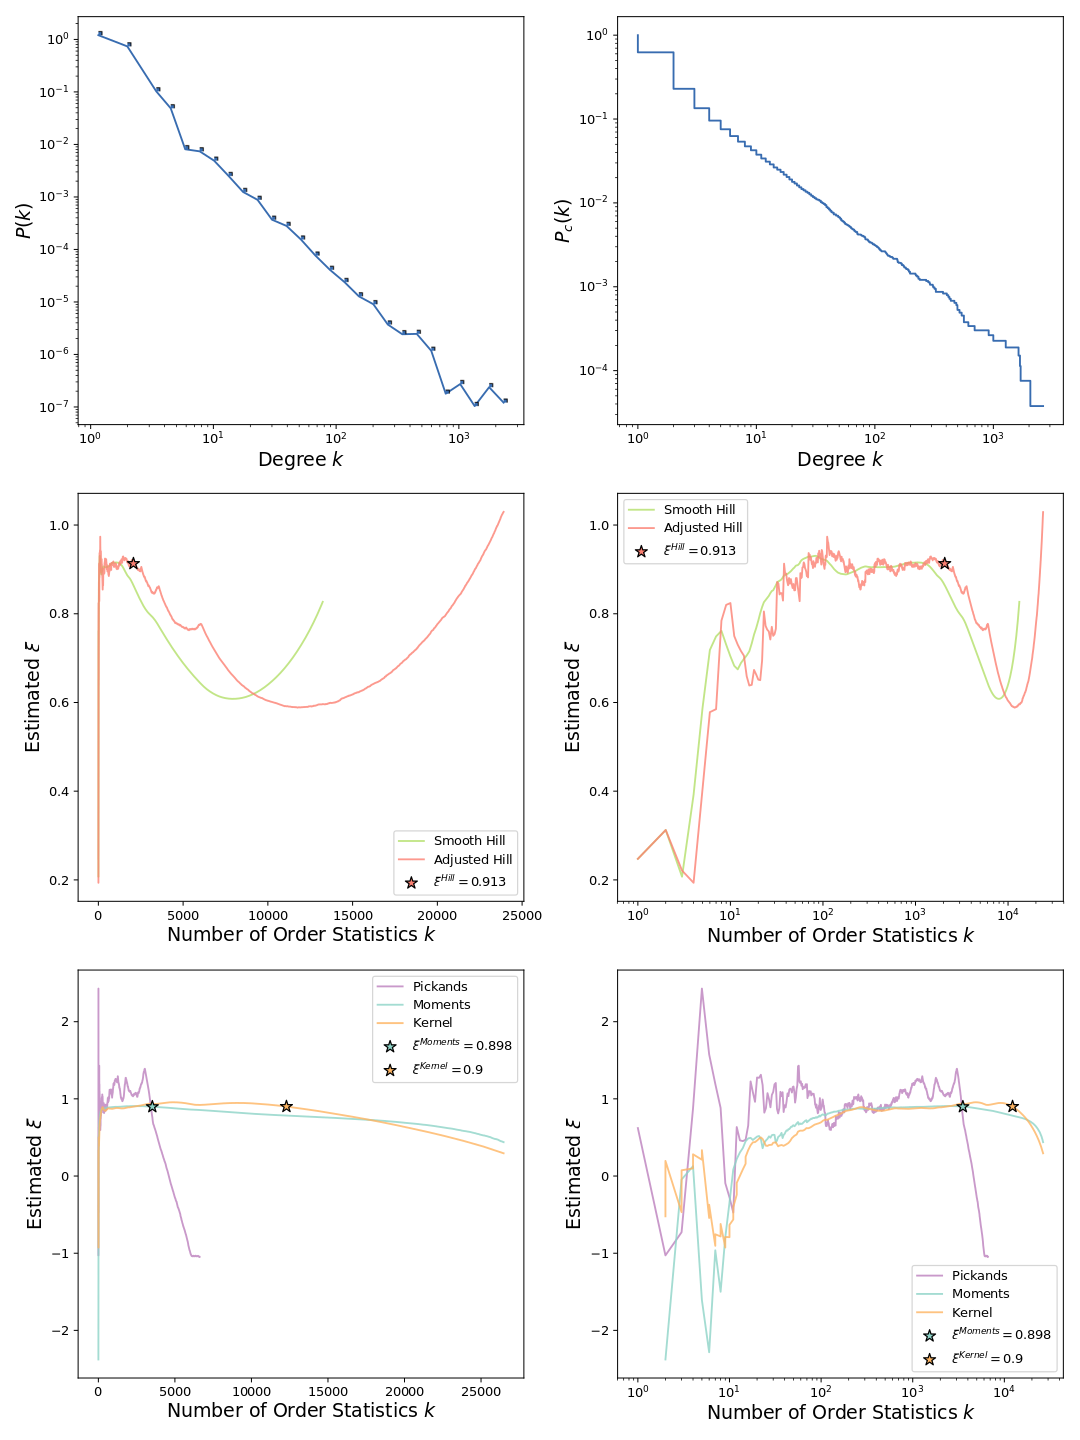
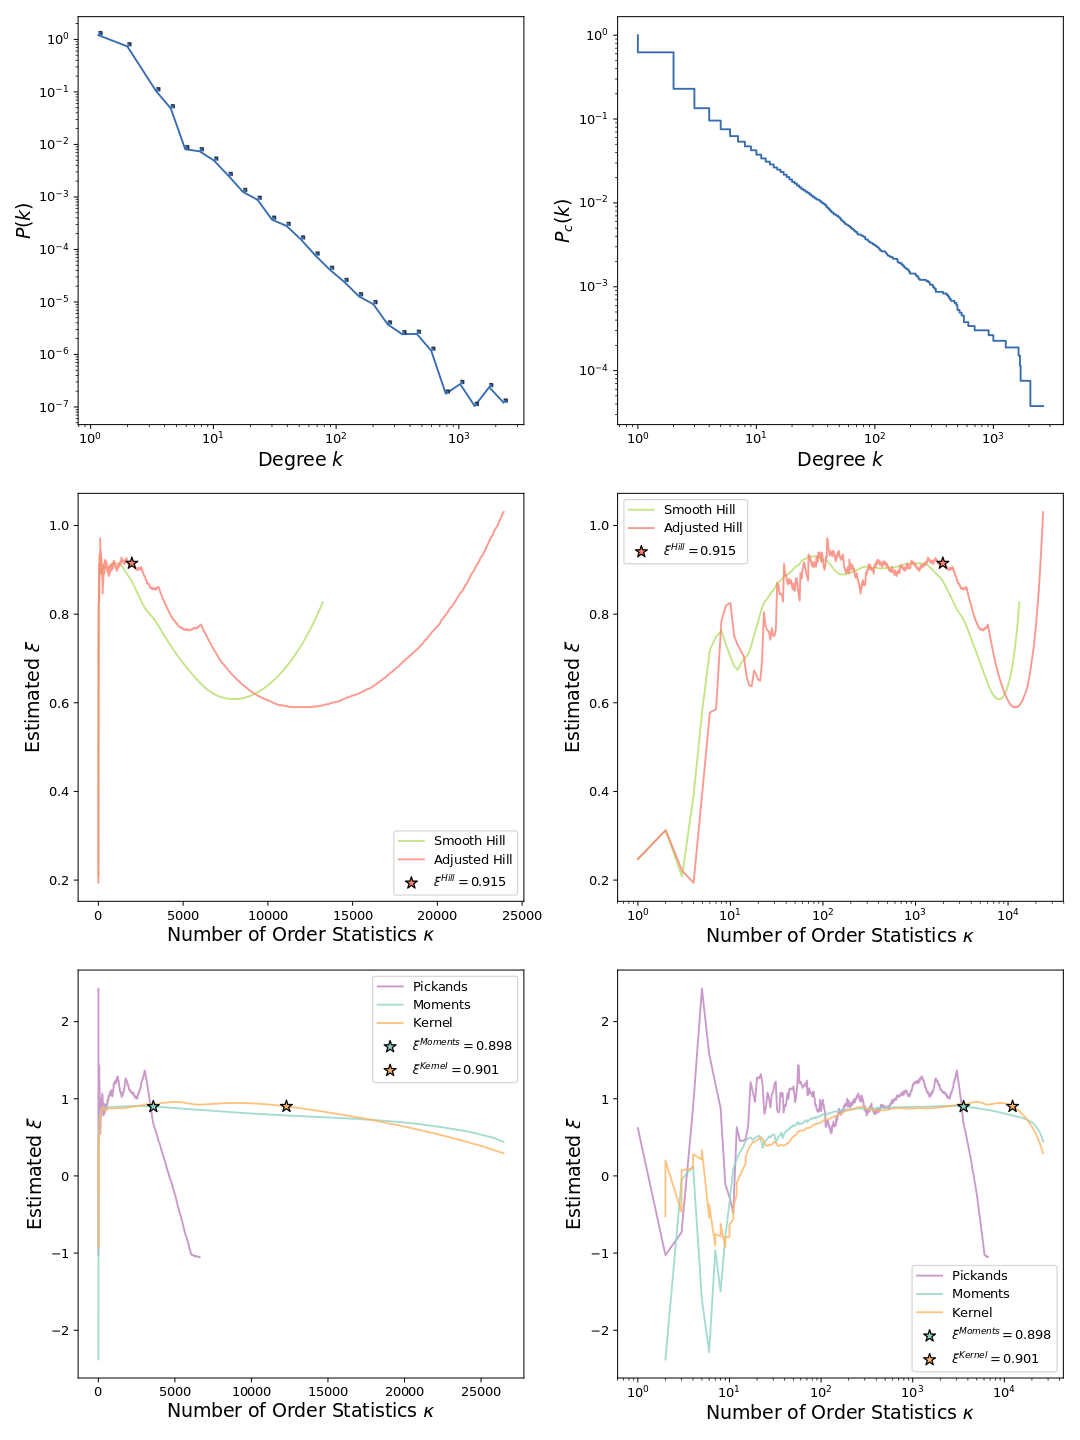
More Updates

diff --git a/Python2/tail-estimation.py b/Python2/tail-estimation.py
@@ -224,8 +224,10 @@ def hill_estimator(ordered_data,
         print "**********"
     else:
         k_star, xi_star = None, None
+        x1_arr, n1_amse, k1, max_index1 = 4*[None]
+        x2_arr, n2_amse, k2, max_index2 = 4*[None]
     results = [k_arr, xi_arr, k_star, xi_star, x1_arr, n1_amse, k1, max_index1,\
-              x2_arr, n2_amse, k2, max_index2]
+               x2_arr, n2_amse, k2, max_index2]
     return results
 
 def smooth_hill_estimator(ordered_data, r_smooth = 2):
@@ -420,6 +422,8 @@ def moments_estimator(ordered_data,
         print "**********"
     else:
         k_star, xi_star = None, None
+        x1_arr, n1_amse, k1, max_index1 = 4*[None]
+        x2_arr, n2_amse, k2, max_index2 = 4*[None]
     results = [k_arr, xi_arr, k_star, xi_star, x1_arr, n1_amse, k1, max_index1,\
               x2_arr, n2_amse, k2, max_index2]
     return results
@@ -636,6 +640,8 @@ def kernel_type_estimator(ordered_data, hsteps, alpha = 0.6,
         print "**********"
     else:
         k_star, xi_star = None, None
+        x1_arr, n1_amse, h1, max_index1 = 4*[None]
+        x2_arr, n2_amse, h2, max_index2 = 4*[None]
         k_arr = np.floor(h_arr * n)
     results = [np.array(k_arr), xi_arr, k_star, xi_star, x1_arr, n1_amse, h1, max_index1,\
               x2_arr, n2_amse, h2, max_index2]
@@ -816,7 +822,8 @@ def make_plots(ordered_data, output_file_path, number_of_bins,
     xi_k_star = kernel_type_results[3]
     x1_k_arr, n1_k_amse, h1, max_k_index1 = kernel_type_results[4:8]
     x2_k_arr, n2_k_amse, h2, max_k_index2 = kernel_type_results[8:]
-    k_k1_star = np.argmin(np.abs(k_k_arr - k_k_star))
+    if bootstrap_flag:
+        k_k1_star = np.argmin(np.abs(k_k_arr - k_k_star))
     if savedata == 1:
         with open(os.path.join(output_dir+"/"+output_name+"_kern_plot.dat"), "w") as f:
             for i in xrange(len(k_k_arr)):
@@ -885,7 +892,7 @@ def make_plots(ordered_data, output_file_path, number_of_bins,
     min_k = int(np.ceil(len(k_h_arr)**theta1)) - 1
     max_k = int(np.floor(len(k_h_arr)**theta2)) - 1
 
-    axes[1,0].set_xlabel(r"Number of Order Statistics $k$", fontsize = 15)
+    axes[1,0].set_xlabel(r"Number of Order Statistics $\kappa$", fontsize = 15)
     axes[1,0].set_ylabel(r"Estimated $\hat{\xi}$", fontsize = 15)    
     # plot smooth Hill
     indices_to_plot = np.where((k_sh_arr <= max_k) & (k_sh_arr >= min_k))
@@ -897,16 +904,17 @@ def make_plots(ordered_data, output_file_path, number_of_bins,
     axes[1,0].plot(k_h_arr[indices_to_plot], xi_h_arr[indices_to_plot],
                    color = "#fb8072", alpha = 0.8, label = "Adjusted Hill",
                    zorder = 10)
-    axes[1,0].scatter([k_h_arr[k_h_star-1]], [xi_h_arr[k_h_star-1]],
-                   color = "#fb8072", marker = "*", s = 100,
-                   edgecolor = "black", zorder = 20, 
-                   label = r"$\widehat{\xi}^{Hill}="\
-                       +str(np.round([xi_h_arr[k_h_star-1]][0], decimals = 3))\
-                       +r"$")
+    if bootstrap_flag:
+        axes[1,0].scatter([k_h_arr[k_h_star-1]], [xi_h_arr[k_h_star-1]],
+                       color = "#fb8072", marker = "*", s = 100,
+                       edgecolor = "black", zorder = 20, 
+                       label = r"$\widehat{\xi}^{Hill}="\
+                           +str(np.round([xi_h_arr[k_h_star-1]][0], decimals = 3))\
+                           +r"$")
     axes[1,0].legend(loc = "best")
 
     
-    axes[1,1].set_xlabel(r"Number of Order Statistics $k$", fontsize = 15)
+    axes[1,1].set_xlabel(r"Number of Order Statistics $\kappa$", fontsize = 15)
     axes[1,1].set_ylabel(r"Estimated $\hat{\xi}$", fontsize = 15) 
     axes[1,1].set_xscale("log")   
     # plot smooth Hill
@@ -919,15 +927,16 @@ def make_plots(ordered_data, output_file_path, number_of_bins,
     axes[1,1].plot(k_h_arr[indices_to_plot], xi_h_arr[indices_to_plot],
                    color = "#fb8072", alpha = 0.8, label = "Adjusted Hill",
                    zorder = 10)
-    axes[1,1].scatter([k_h_arr[k_h_star-1]], [xi_h_arr[k_h_star-1]],
-                   color = "#fb8072", marker = "*", s = 100,
-                   edgecolor = "black", zorder = 20, 
-                   label = r"$\widehat{\xi}^{Hill}="\
-                       +str(np.round([xi_h_arr[k_h_star-1]][0], decimals = 3))\
-                       +r"$")
+    if bootstrap_flag:
+        axes[1,1].scatter([k_h_arr[k_h_star-1]], [xi_h_arr[k_h_star-1]],
+                       color = "#fb8072", marker = "*", s = 100,
+                       edgecolor = "black", zorder = 20, 
+                       label = r"$\widehat{\xi}^{Hill}="\
+                           +str(np.round([xi_h_arr[k_h_star-1]][0], decimals = 3))\
+                           +r"$")
     axes[1,1].legend(loc = "best")
 
-    axes[2,0].set_xlabel(r"Number of Order Statistics $k$", fontsize = 15)
+    axes[2,0].set_xlabel(r"Number of Order Statistics $\kappa$", fontsize = 15)
     axes[2,0].set_ylabel(r"Estimated $\hat{\xi}$", fontsize = 15)
 
     #plot Pickands
@@ -940,26 +949,28 @@ def make_plots(ordered_data, output_file_path, number_of_bins,
     axes[2,0].plot(k_m_arr[indices_to_plot], xi_m_arr[indices_to_plot],
                    color = "#8dd3c7", alpha = 0.8, label = "Moments",
                    zorder = 10)
-    axes[2,0].scatter([k_m_arr[k_m_star-1]], [xi_m_arr[k_m_star-1]],
-                   color = "#8dd3c7", marker = "*", s = 100,
-                   edgecolor = "black", zorder = 20, 
-                   label = r"$\widehat{\xi}^{Moments}="\
-                       +str(np.round([xi_m_arr[k_m_star-1]][0], decimals = 3))\
-                       +r"$")
+    if bootstrap_flag:
+        axes[2,0].scatter([k_m_arr[k_m_star-1]], [xi_m_arr[k_m_star-1]],
+                       color = "#8dd3c7", marker = "*", s = 100,
+                       edgecolor = "black", zorder = 20, 
+                       label = r"$\widehat{\xi}^{Moments}="\
+                           +str(np.round([xi_m_arr[k_m_star-1]][0], decimals = 3))\
+                           +r"$")
     #plot kernel-type
     indices_to_plot = np.where((xi_k_arr <= 3) & (xi_k_arr >= -3))
     axes[2,0].plot(k_k_arr[indices_to_plot], xi_k_arr[indices_to_plot],
                    color = "#fdb462", alpha = 0.8, label = "Kernel",
                    zorder = 10)
-    axes[2,0].scatter([k_k_arr[k_k1_star-1]], [xi_k_arr[k_k1_star-1]],
-                   color = "#fdb462", marker = "*", s = 100,
-                   edgecolor = "black", zorder = 20, 
-                   label = r"$\widehat{\xi}^{Kernel}="\
-                       +str(np.round([xi_k_arr[k_k1_star-1]][0], decimals = 3))\
-                       +r"$")
+    if bootstrap_flag:
+        axes[2,0].scatter([k_k_arr[k_k1_star-1]], [xi_k_arr[k_k1_star-1]],
+                       color = "#fdb462", marker = "*", s = 100,
+                       edgecolor = "black", zorder = 20, 
+                       label = r"$\widehat{\xi}^{Kernel}="\
+                           +str(np.round([xi_k_arr[k_k1_star-1]][0], decimals = 3))\
+                           +r"$")
     axes[2,0].legend(loc = "best")
 
-    axes[2,1].set_xlabel(r"Number of Order Statistics $k$", fontsize = 15)
+    axes[2,1].set_xlabel(r"Number of Order Statistics $\kappa$", fontsize = 15)
     axes[2,1].set_ylabel(r"Estimated $\hat{\xi}$", fontsize = 15)
     axes[2,1].set_xscale("log")
     #plot Pickands
@@ -972,23 +983,25 @@ def make_plots(ordered_data, output_file_path, number_of_bins,
     axes[2,1].plot(k_m_arr[indices_to_plot], xi_m_arr[indices_to_plot],
                    color = "#8dd3c7", alpha = 0.8, label = "Moments",
                    zorder = 10)
-    axes[2,1].scatter([k_m_arr[k_m_star-1]], [xi_m_arr[k_m_star-1]],
-                   color = "#8dd3c7", marker = "*", s = 100,
-                   edgecolor = "black", zorder = 20, 
-                   label = r"$\widehat{\xi}^{Moments}="\
-                       +str(np.round([xi_m_arr[k_m_star-1]][0], decimals = 3))\
-                       +r"$")
+    if bootstrap_flag:
+        axes[2,1].scatter([k_m_arr[k_m_star-1]], [xi_m_arr[k_m_star-1]],
+                       color = "#8dd3c7", marker = "*", s = 100,
+                       edgecolor = "black", zorder = 20, 
+                       label = r"$\widehat{\xi}^{Moments}="\
+                           +str(np.round([xi_m_arr[k_m_star-1]][0], decimals = 3))\
+                           +r"$")
     #plot kernel-type
     indices_to_plot = np.where((xi_k_arr <= 3) & (xi_k_arr >= -3))
     axes[2,1].plot(k_k_arr[indices_to_plot], xi_k_arr[indices_to_plot],
                    color = "#fdb462", alpha = 0.8, label = "Kernel",
                    zorder = 10)
-    axes[2,1].scatter([k_k_arr[k_k1_star-1]], [xi_k_arr[k_k1_star-1]],
-                   color = "#fdb462", marker = "*", s = 100,
-                   edgecolor = "black", zorder = 20, 
-                   label = r"$\widehat{\xi}^{Kernel}="\
-                       +str(np.round([xi_k_arr[k_k1_star-1]][0], decimals = 3))\
-                       +r"$")
+    if bootstrap_flag:
+        axes[2,1].scatter([k_k_arr[k_k1_star-1]], [xi_k_arr[k_k1_star-1]],
+                       color = "#fdb462", marker = "*", s = 100,
+                       edgecolor = "black", zorder = 20, 
+                       label = r"$\widehat{\xi}^{Kernel}="\
+                           +str(np.round([xi_k_arr[k_k1_star-1]][0], decimals = 3))\
+                           +r"$")
     axes[2,1].legend(loc = "best")
 
     if diagn_plots:

diff --git a/README.md b/README.md
@@ -1,6 +1,6 @@
 # Tail Index Estimation for Degree Sequences of Complex Networks
 
-[summary](#script-summary)
+## Summary
 
 This script is intended to be a single-file simple solution to the tail index estimation problem in complex networks. It consists of several well-established estimators combined into one toolbox along with some useful plotting routines that usually help to analyze a given degree distribution.
 
@@ -25,27 +25,45 @@ where **k** is a node's degree and **n(k)** is the number of nodes with such deg
 ## Simple Usage Example
 
 Here we provide the simplest usage example of the _tail-estimation_ script. 
-Suppose we want to compute the tail index of a degree distribution of the [CAIDA network](http://konect.uni-koblenz.de/networks/as-caida20071105) provided by [KONECT database](http://konect.uni-koblenz.de/). We first convert the network in the form of an edge list to the format of _degree counts_ as indicated above. The converted data can be found under the _Examples_ directory under the **CAIDA_KONECT.dat** name. Then we run the _tail-estimation.py_ script as follows:
+Suppose we want to compute the tail index of a degree distribution of the [CAIDA network](http://konect.uni-koblenz.de/networks/as-caida20071105) provided by [KONECT database](http://konect.uni-koblenz.de/). We first convert the network from the format of an edge list to the format of _degree counts_ as indicated above. The converted data can be found under the _Examples_ directory under the **CAIDA_KONECT.dat** name. Then we run the _tail-estimation.py_ script as follows:
 ```
 python tail-estimation.py /path/to/degree/sequence /path/to/output/plots/file
 ```
 
-This will produce an image file with plots as well as some STDOUT messages reporting estimated tail indices. An example of such image for the CAIDA network is given below:
+This will produce a collection of plots as well as some STDOUT messages reporting estimated tail indices. An example of plots generated for the CAIDA network is given below:
 ![CAIDA Output](https://raw.githubusercontent.com/ivanvoitalov/tail-estimation/master/Figures/CAIDA_output.png)
 
-## Command Line Options
+# What does it mean?!
+
+Although at the first glance the plots produced by the script may seem to be complicated, it is very easy to interpret them for your network! The main thing to notice is that all tail index estimates are plotted in terms of parameter $\xi$ that is related to the tail index of the PDF of degree distribution $\gamma$ as follows: $\xi = \frac{1}{\gamma - 1}$. Here we list the description of what is exactly shown on each subfigure, starting from the top left one:
+1. Log-binned probability density function (PDF) of a given degree sequence.
+2. Complementary cumulative distribution function (CCDF) of a given degree sequence.
+3. Smooth and adjusted Hill estimates of $\xi = \frac{1}{\gamma - 1}$ parameter on a linear scale as a function of the number of included degree sequence order statistic $\kappa$. Star marker shows best estimate of the tail index $\xi$ based on the double-bootstrap procedure for Hill estimator.
+4. Smooth and adjusted Hill estimates of $\xi$ parameter on a semilog scale as a function of the number of included degree sequence order statistic $\kappa$. Star marker shows best estimate of the tail index $\xi$ based on the double-bootstrap procedure for Hill estimator.
+5. Pickands, moments and kernel-type estimates of $\xi$ parameter on a linear scale as a function of the number of included degree sequence order statistic $\kappa$. Star markers show best estimate of the tail index $\xi$ based on the double-bootstrap procedure for moments and kernel-type estimators.
+6. Pickands, moments and kernel-type estimates of $\xi$ parameter on a semilog scale as a function of the number of included degree sequence order statistic $\kappa$. Star markers show best estimate of the tail index $\xi$ based on the double-bootstrap procedure for moments and kernel-type estimators.
+
+## Advanced Examples
+
+# Generating diagnostic plots
+
+# Changing _epsstop_ parameter
+
+# Analyzing non-network data
+
+# Noise and why is it added
 
 ## Implemented Estimators
 
 Currently several classical estimators for tail index estimation are implemented:
-* Hill estimator, including smoothed Hill estimator and adjusted Hill estimator;
+* Hill estimator, including smoothed Hill estimator;
 * moments estimator;
 * Pickands estimator;
 * kernel-type estimator.
 
 ## Double-bootstrap for Optimal Threshold Estimation
 
-The package implement double-bootstrap estimation of the optimal order statistic for several estimators:
+The package implements double-bootstrap estimation of the optimal order statistic for several estimators:
 * Hill;
 * Moments;
 * Kernel-type.
@@ -54,6 +72,4 @@ Hill double-boostrap: [Danielsson et al. (2001)](https://www.riskresearch.org/pa
 Moments double-bootstrap: [Draisma et al. (1999)](https://link.springer.com/article/10.1023/A:1009900215680)
 Kernel-type double-bootstrap: [Groeneboom et al. (2003)](https://www.jstor.org/stable/3448443)
 
-## Usage Example
-
-## Additional Info
+## Command Line Options
